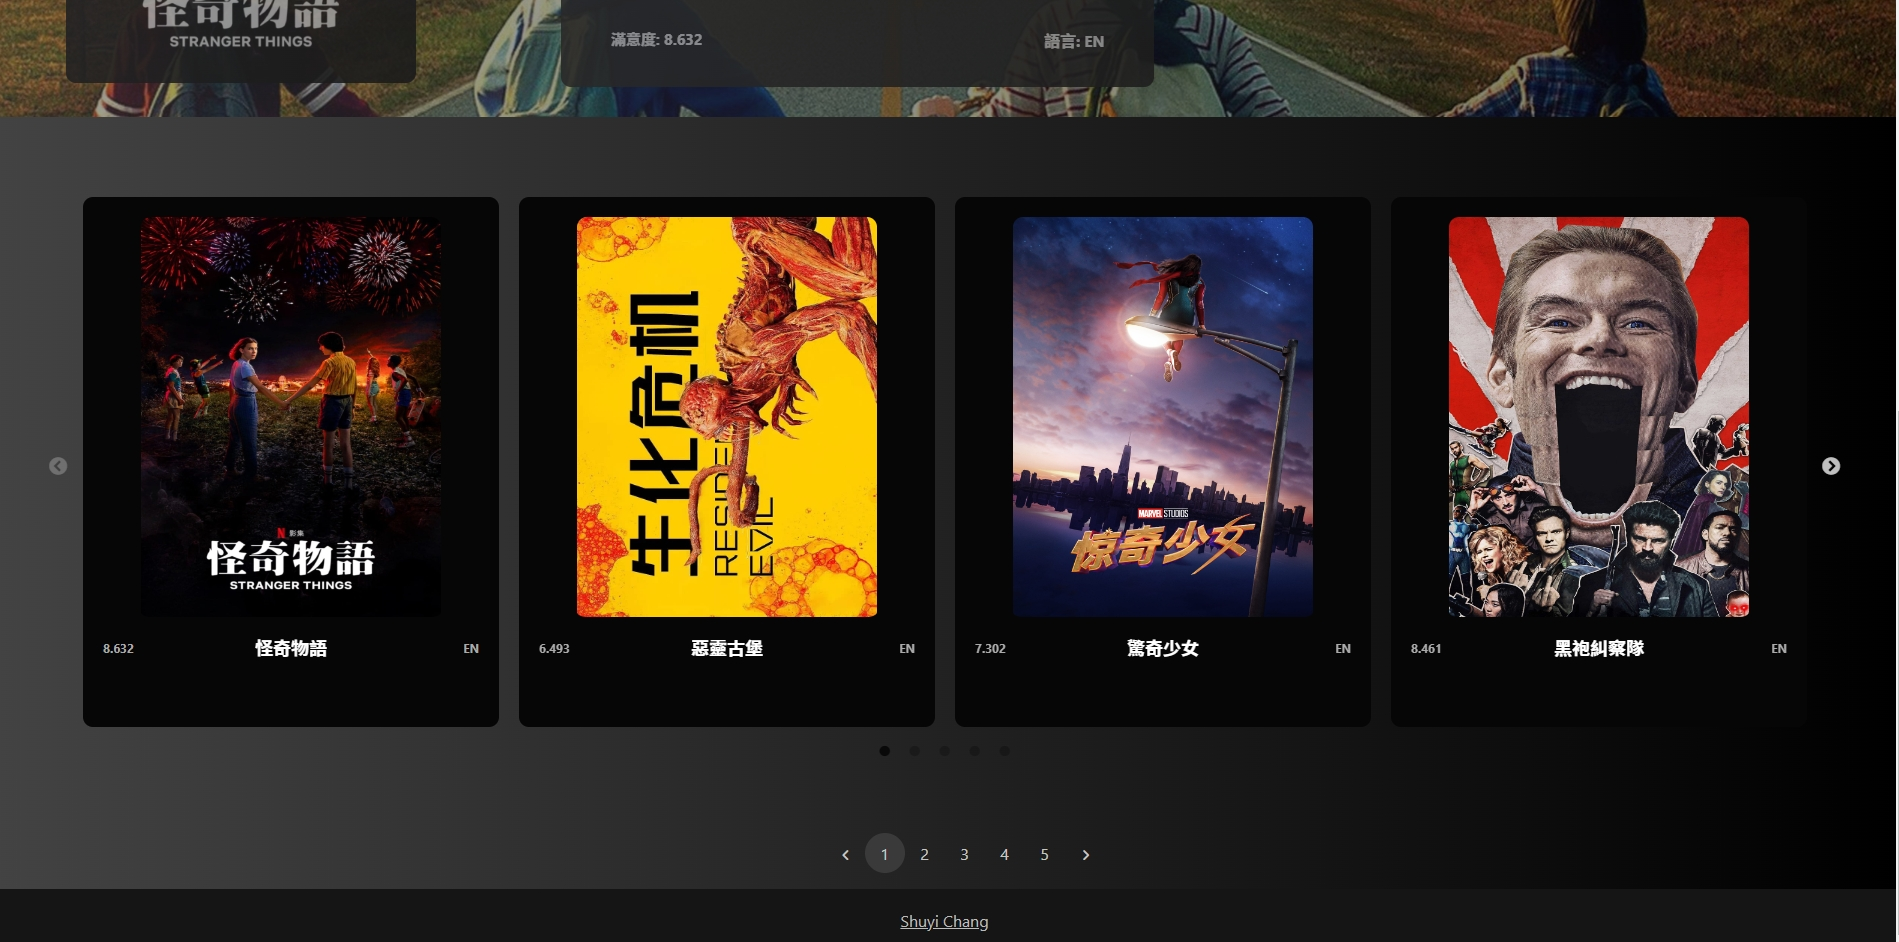
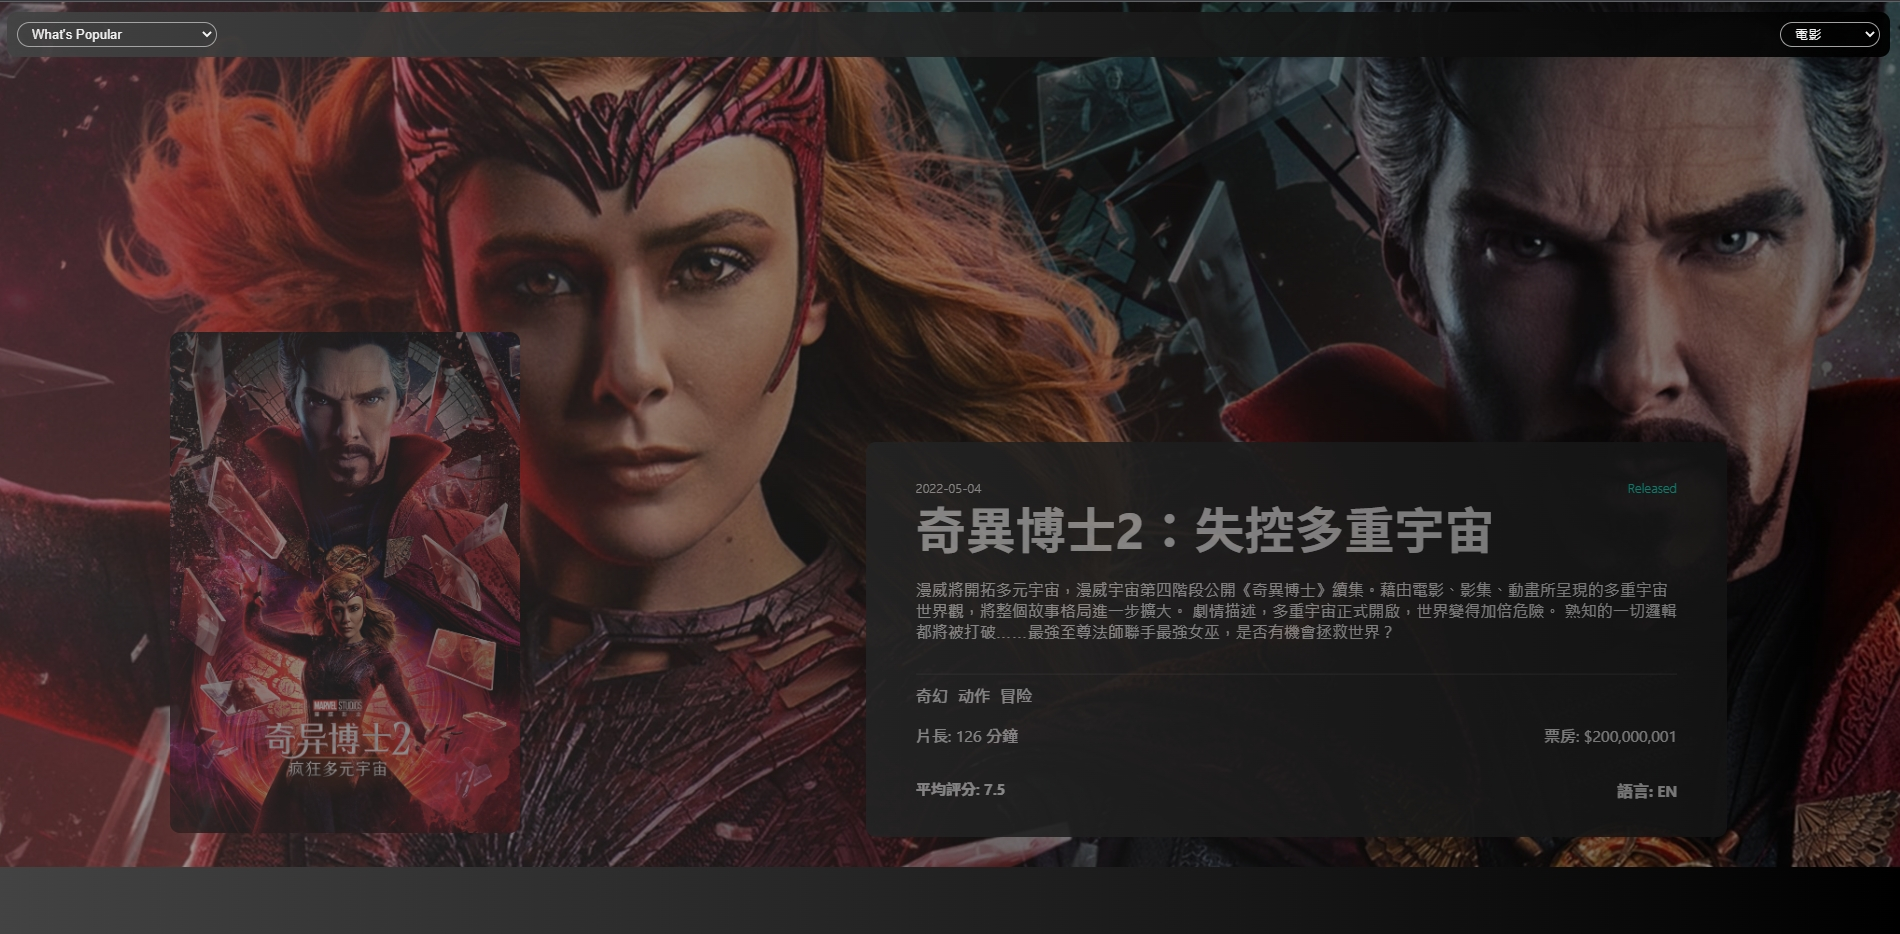
feat(新增detail & 更換畫面截圖): 新增detail & 更換畫面截圖
新增detail & 更換畫面截圖

BREAKING CHANGE: no

Closes no

diff --git a/src/components/Contact.js b/src/components/Contact.js
@@ -16,7 +16,7 @@ const Contact = () => {
   let [movieList, setMovieList] = useState([]);
 
   const [currentIndex, changeCurrentIndex] = useState(0);
-  const [movieID, setMovieID] = useState(453395);
+  const [movieID, setMovieID] = useState();
   const [movieDetails, setMovieDetails] = useState({});
   const [movieGenres, setMovieGenre] = useState(movieDetails['genres']);
 
@@ -58,8 +58,6 @@ const Contact = () => {
     ],
   };
 
-  // const startIndex = (page - 1) * USER_PER_PAGE;
-
   useEffect(() => {
     // 趨勢
     if (category === 'trending') {
@@ -75,6 +73,7 @@ const Contact = () => {
         .then((result) => result.json())
         .then((resultJSON) => {
           setMovieList(resultJSON.results);
+          setMovieID(resultJSON.results[0]['id']);
           setTotalPages(resultJSON['total_pages']);
         })
         .catch((e) => console.log(e))
@@ -94,8 +93,8 @@ const Contact = () => {
       )
         .then((result) => result.json())
         .then((resultJSON) => {
-          // console.log('resultJSON = ', resultJSON);
           setMovieList(resultJSON.results);
+          setMovieID(resultJSON.results[0]['id']);
           setTotalPages(resultJSON['total_pages']);
         })
         .catch((e) => console.log(e))
@@ -109,41 +108,39 @@ const Contact = () => {
     setPage(number);
   };
 
-  //   useEffect(() => {
-  //     fetch(
-  //       'https://api.themoviedb.org/3/movie/' +
-  //         movieID +
-  //         '?api_key=bef2528d4379f5461c3b41b4c7002244&language=zh-TW'
-  //     )
-  //       .then((result) => result.json())
-  //       .then((resultJSON) => {
-  //         setMovieDetails(resultJSON);
-  //         setMovieID(resultJSON['id']);
-  //         console.log(resultJSON['budget']);
-  //       })
-  //       .catch((e) => console.log(e))
-  //       .finally(() => {
-  //         setMovieGenre(movieDetails['genres']);
-  //       });
-  //   }, [movieID, type, page, movieDetails]);
+  useEffect(() => {
+    if (movieID) {
+      fetch(
+        'https://api.themoviedb.org/3/movie/' +
+          movieID +
+          '?api_key=bef2528d4379f5461c3b41b4c7002244&language=zh-TW'
+      )
+        .then((result) => result.json())
+        .then((resultJSON) => {
+          setMovieDetails(resultJSON);
+          setMovieGenre(resultJSON['genres']);
+          setMovieID(resultJSON['id']);
+          console.log(resultJSON['budget']);
+        })
+        .catch((e) => console.log(e))
+        .finally(() => {
+          console.log('finally');
+        });
+    }
+  }, [movieID]);
 
-  function changeMovie(index) {
-    console.log(index);
+  const changeMovie = (index) => {
     movieList.length > 0
       ? setMovieID(movieList[index]['id'])
       : setMovieID(453395);
     changeCurrentIndex(index);
     setMovieGenre(movieDetails['genres']);
     scrollToTop();
-  }
+  };
 
-  function scrollToTop() {
+  const scrollToTop = () => {
     window.scrollTo(0, 0);
-    // window.scrollTo({
-    //   top: 0,
-    //   behavior: 'smooth',
-    // });
-  }
+  };
 
   return (
     <div>
@@ -220,7 +217,7 @@ const Contact = () => {
           </div>
           <div className="gridView">
             <Slider {...settings}>
-              {movieList.map((movie, index) => {
+              {movieList.map((_, index) => {
                 return (
                   <EachMovie
                     key={index}
@@ -263,21 +260,6 @@ const Contact = () => {
           handleClick={handlePageClick}
         />
       </div>
-      {/* <button
-        className="pageBtn"
-        onClick={() => {
-          setPage(page + 1 > totalPages ? 1 : page + 1);
-          setCurrentPage(page + 1 > totalPages ? 1 : page + 1);
-          scrollToTop();
-          movieList.length > 0
-            ? setMovieID(movieList[0]['id'])
-            : setMovieID(453395);
-          changeCurrentIndex(0);
-          setMovieGenre(movieDetails['genres']);
-        }}
-      >
-        Next
-      </button> */}
     </div>
   );
 };

diff --git a/src/components/Details.js b/src/components/Details.js
@@ -1,5 +1,13 @@
 import './Details.css';
 
+const numberComma = (num) => {
+  if (num) {
+    let comma = /\B(?<!\.\d*)(?=(\d{3})+(?!\d))/g;
+    return num.toString().replace(comma, ',');
+  }
+  return '';
+};
+
 const Details = (props) => {
   const backdropImage = 'https://image.tmdb.org/t/p/original' + props.bgImage;
   return (
@@ -53,7 +61,6 @@ const Details = (props) => {
                         style={{
                           marginRight: '10px',
                           fontWeight: 'normal',
-                          fontStyle: 'italic',
                         }}
                         className="movieGenreD"
                       >
@@ -67,7 +74,7 @@ const Details = (props) => {
               <div></div>
             )}
           </div>
-          {/* {props.type === 'tv' ? (
+          {props.type === 'tv' ? (
             <div></div>
           ) : (
             <div>
@@ -75,12 +82,17 @@ const Details = (props) => {
                 <p className="movieDescriptionD">
                   {'片長: ' + props.runtime + ' 分鐘'}
                 </p>
-                <p className="movieDescriptionD">{'票房: $' + props.budget}</p>
+                <p className="movieDescriptionD">
+                  {'票房: $' + numberComma(props.budget)}
+                </p>
               </div>
             </div>
-          )} */}
+          )}
           <div className="rateAndLangD">
-            <h4 className="movieRatingD"> {'滿意度: ' + props.movieRating} </h4>
+            <h4 className="movieRatingD">
+              {' '}
+              {'平均評分: ' + props.movieRating}{' '}
+            </h4>
             <h4>
               語言:
               <span className="movieLanguageD"> {props.movieLanguage} </span>

diff --git a/src/components/EachMovie.js b/src/components/EachMovie.js
@@ -4,16 +4,6 @@ const EachMovie = (props) => {
   let backdropImage = 'https://image.tmdb.org/t/p/original' + props.bgImage;
   return (
     <div className="movieStack" onClick={() => props.onClickFunc(props.index)}>
-      {/* <div className="card">
-        <div className="card-top">
-          <img alt="moviePoster" src={poster} />
-          <h1>title</h1>
-        </div>
-        <div className="card-bottom">
-          <h3>price</h3>
-          <span className="category">category</span>
-        </div>
-      </div> */}
       <div className="eachMovie">
         <img alt="moviePoster" src={poster} className="moviePoster" />
         <h1 className="movieTitle"> {props.movieTitle} </h1>
@@ -26,14 +16,12 @@ const EachMovie = (props) => {
           backgroundImage: `linear-gradient( rgba(0, 0, 0, 0.8), rgba(0, 0, 0, 0.5) ), url(${backdropImage})`,
         }}
       >
-        {/* <h3> Title </h3> */}
         <p> {props.movieTitle} </p>
-        {/* <h3> Description </h3> */}
         <p>{props.movieDescription}</p>
         <div className="rateAndLang">
-          {/* <h4> Rating </h4>
-          <h4> Language </h4> 
-          <h4> {props.type === 'tv' ? 'First Air Date' : 'Release Date'} </h4> */}
+          <h4> 平均評分 </h4>
+          <h4> 語言 </h4>
+          <h4> {props.type === 'tv' ? '首播日期' : '發布日期'} </h4>
         </div>
         <div className="rateAndLang">
           <p> {props.movieRating} </p>
